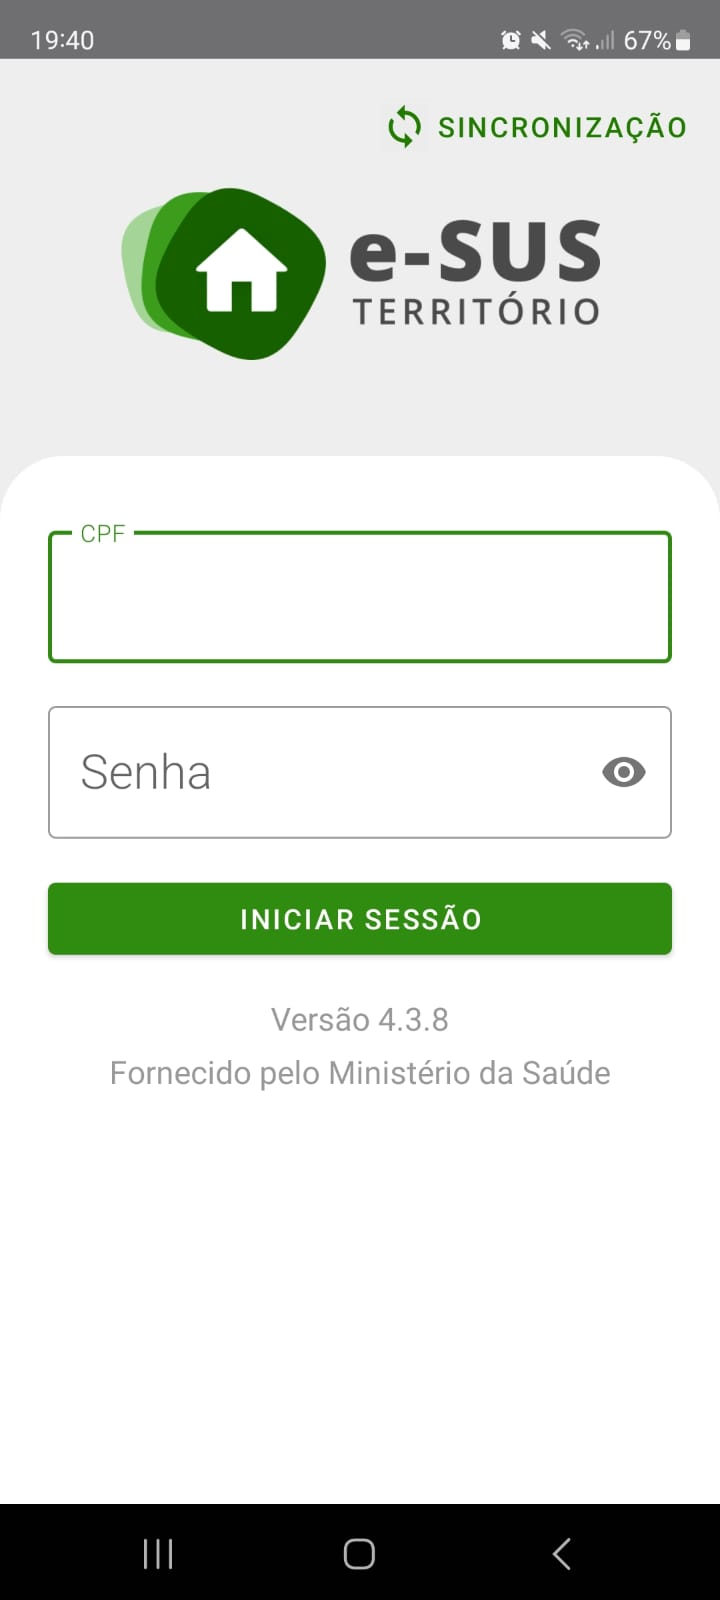
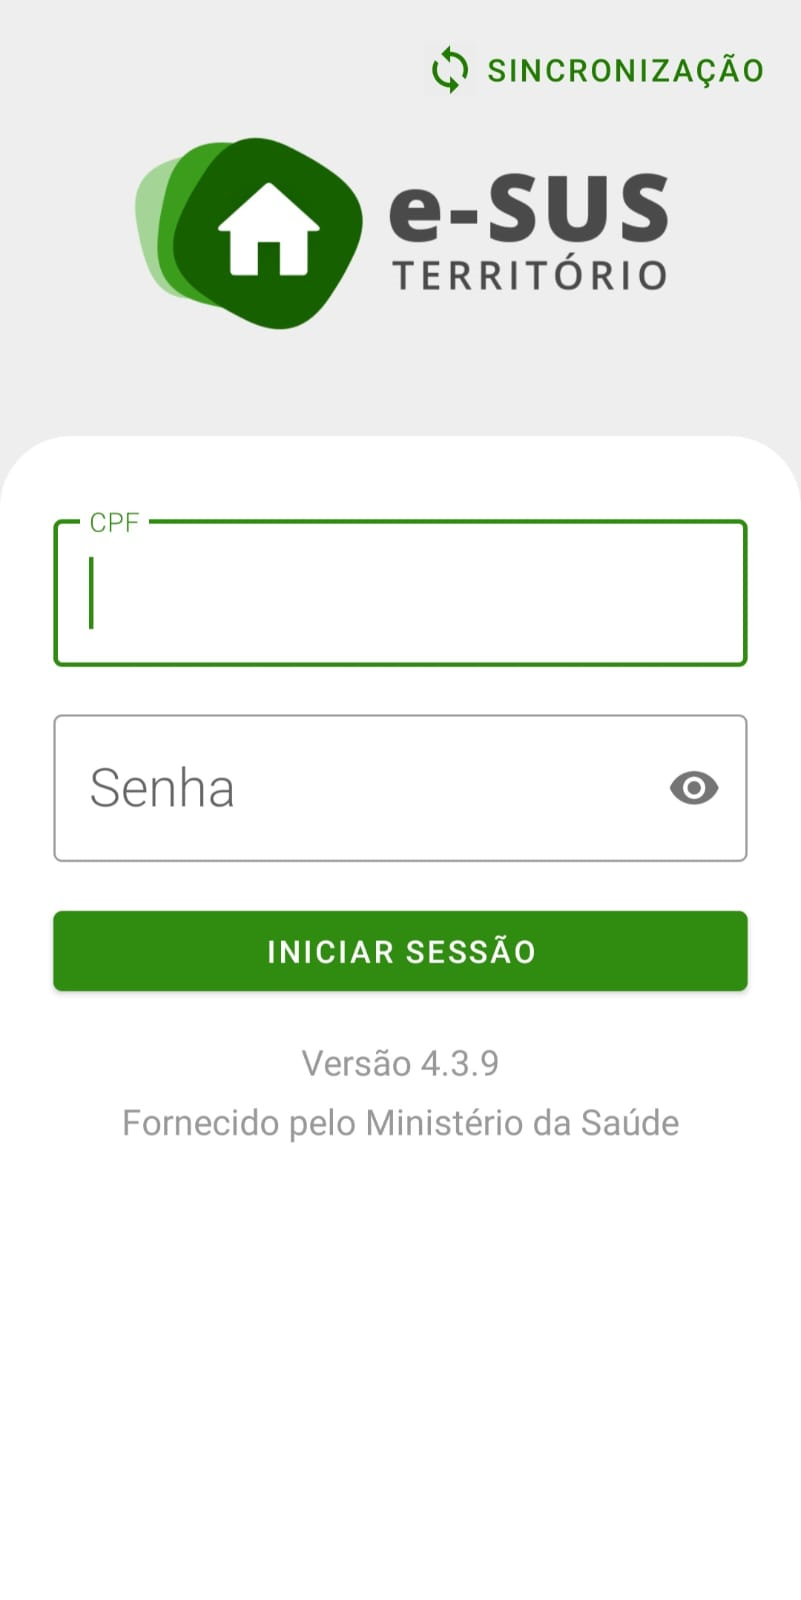
atual
Versionamento

diff --git a/docs/territorio/territorio_01.md b/docs/territorio/territorio_01.md
@@ -31,7 +31,7 @@ Sua experiência de uso poderá contribuir para a evolução do aplicativo e-SUS
 
 ## 1.1 Versão do Aplicativo Usado neste Manual
 
-Este manual foi elaborado usando como referência o Aplicativo e-SUS Território em sua **versão 4.3.8**. O acesso às informações sobre a versão do aplicativo, bem como as alterações realizadas nesta e nas versões anteriores, podem ser visualizadas na opção **Sobre**, acessada no menu principal do aplicativo![](media/image2.png)
+Este manual foi elaborado usando como referência o Aplicativo e-SUS Território em sua **versão 4.3.9**. O acesso às informações sobre a versão do aplicativo, bem como as alterações realizadas nesta e nas versões anteriores, podem ser visualizadas na opção **Sobre**, acessada no menu principal do aplicativo![](media/image2.png)
 
 Figura 1.1 -- Versão do Aplicativo e-SUS Território
 
